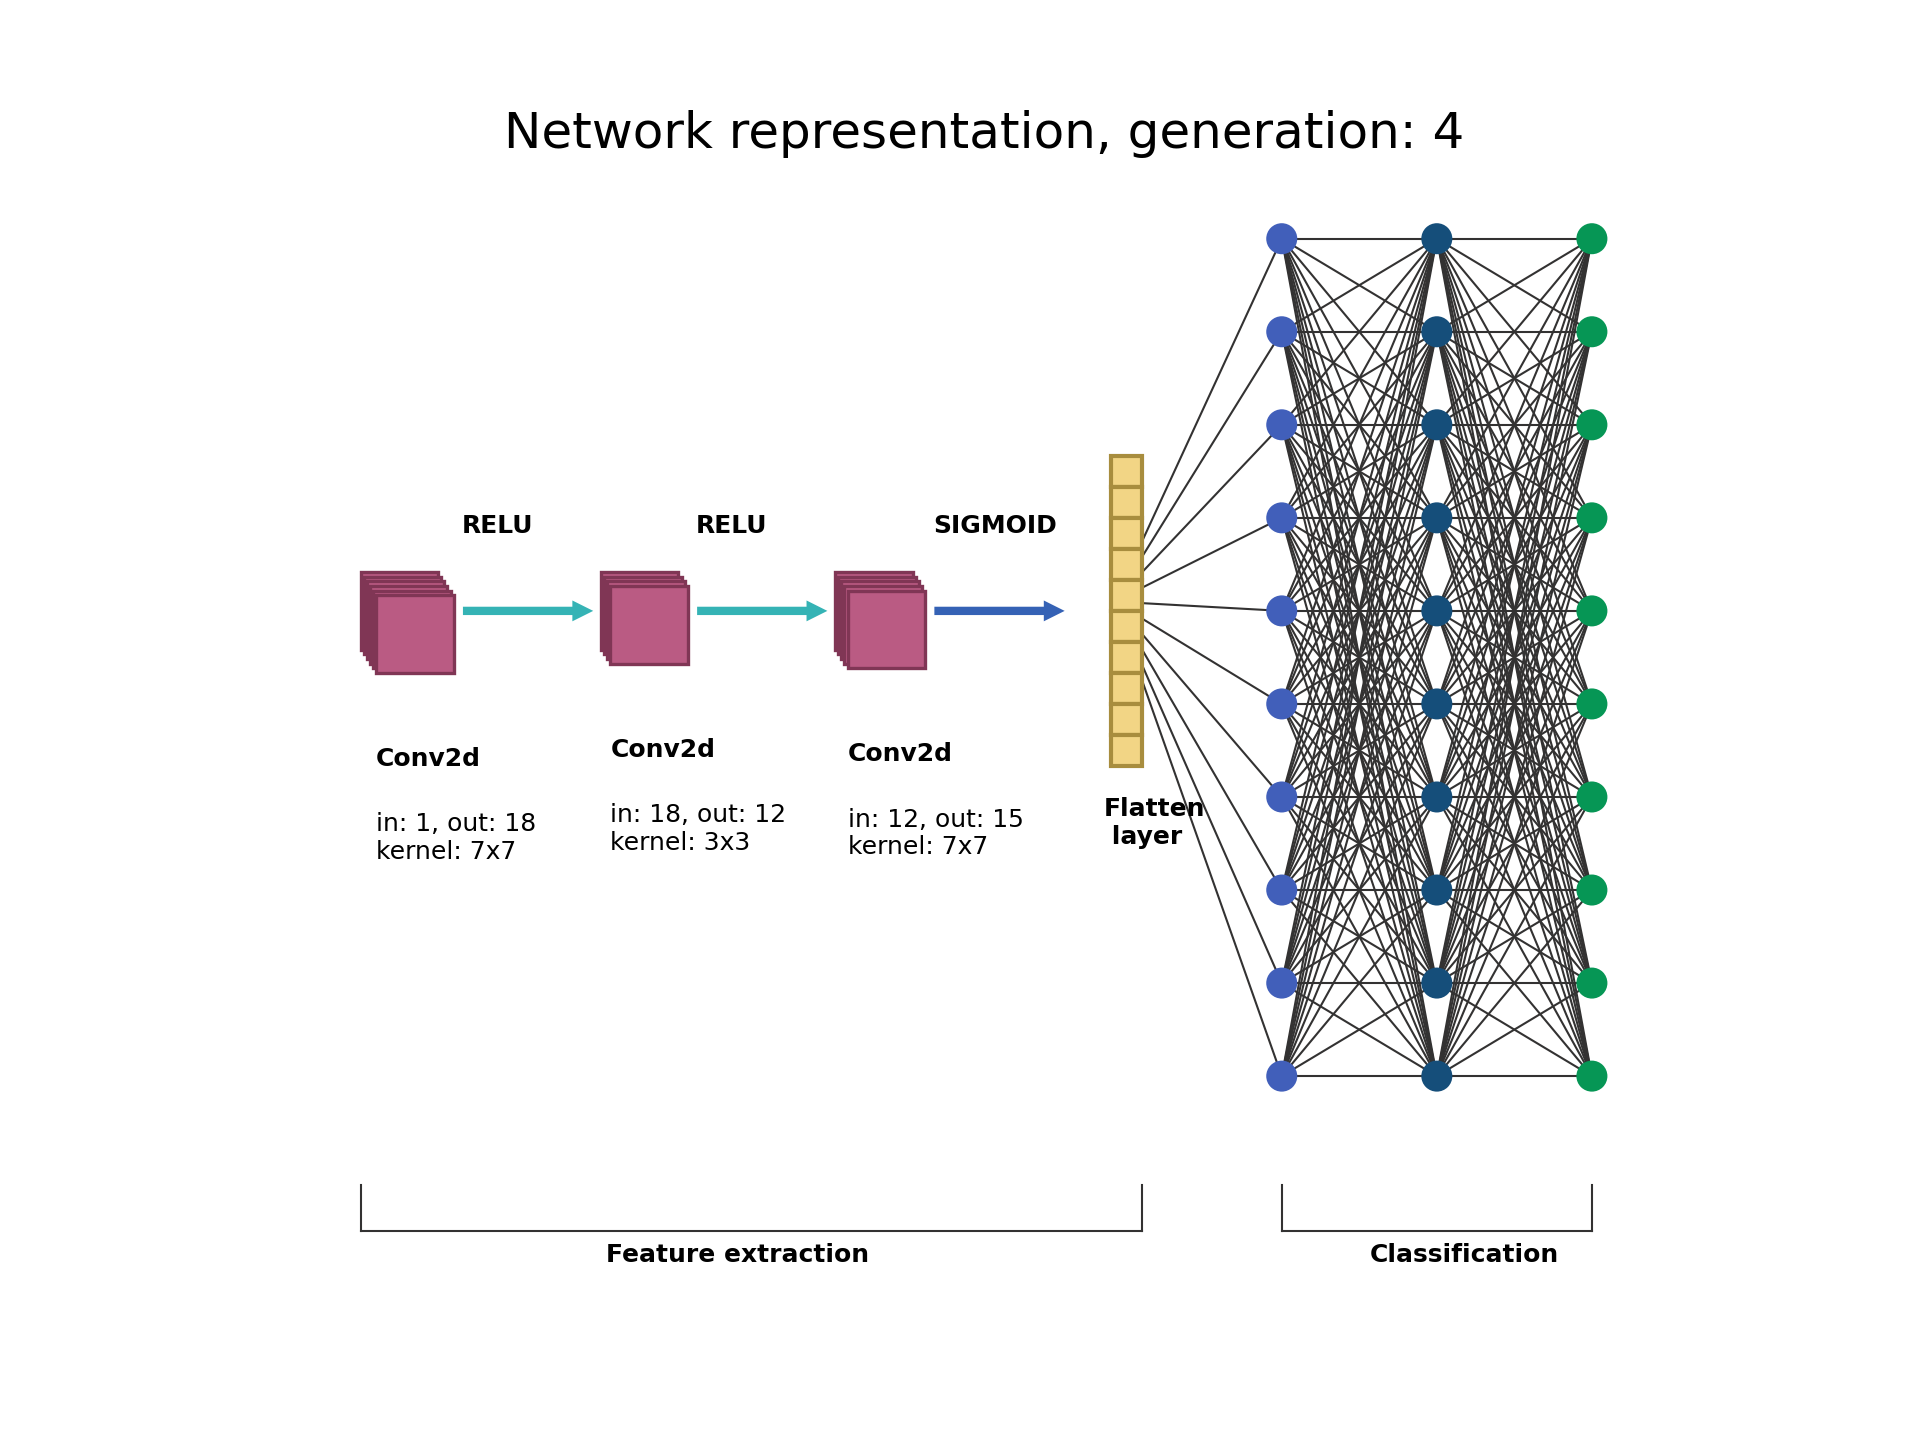
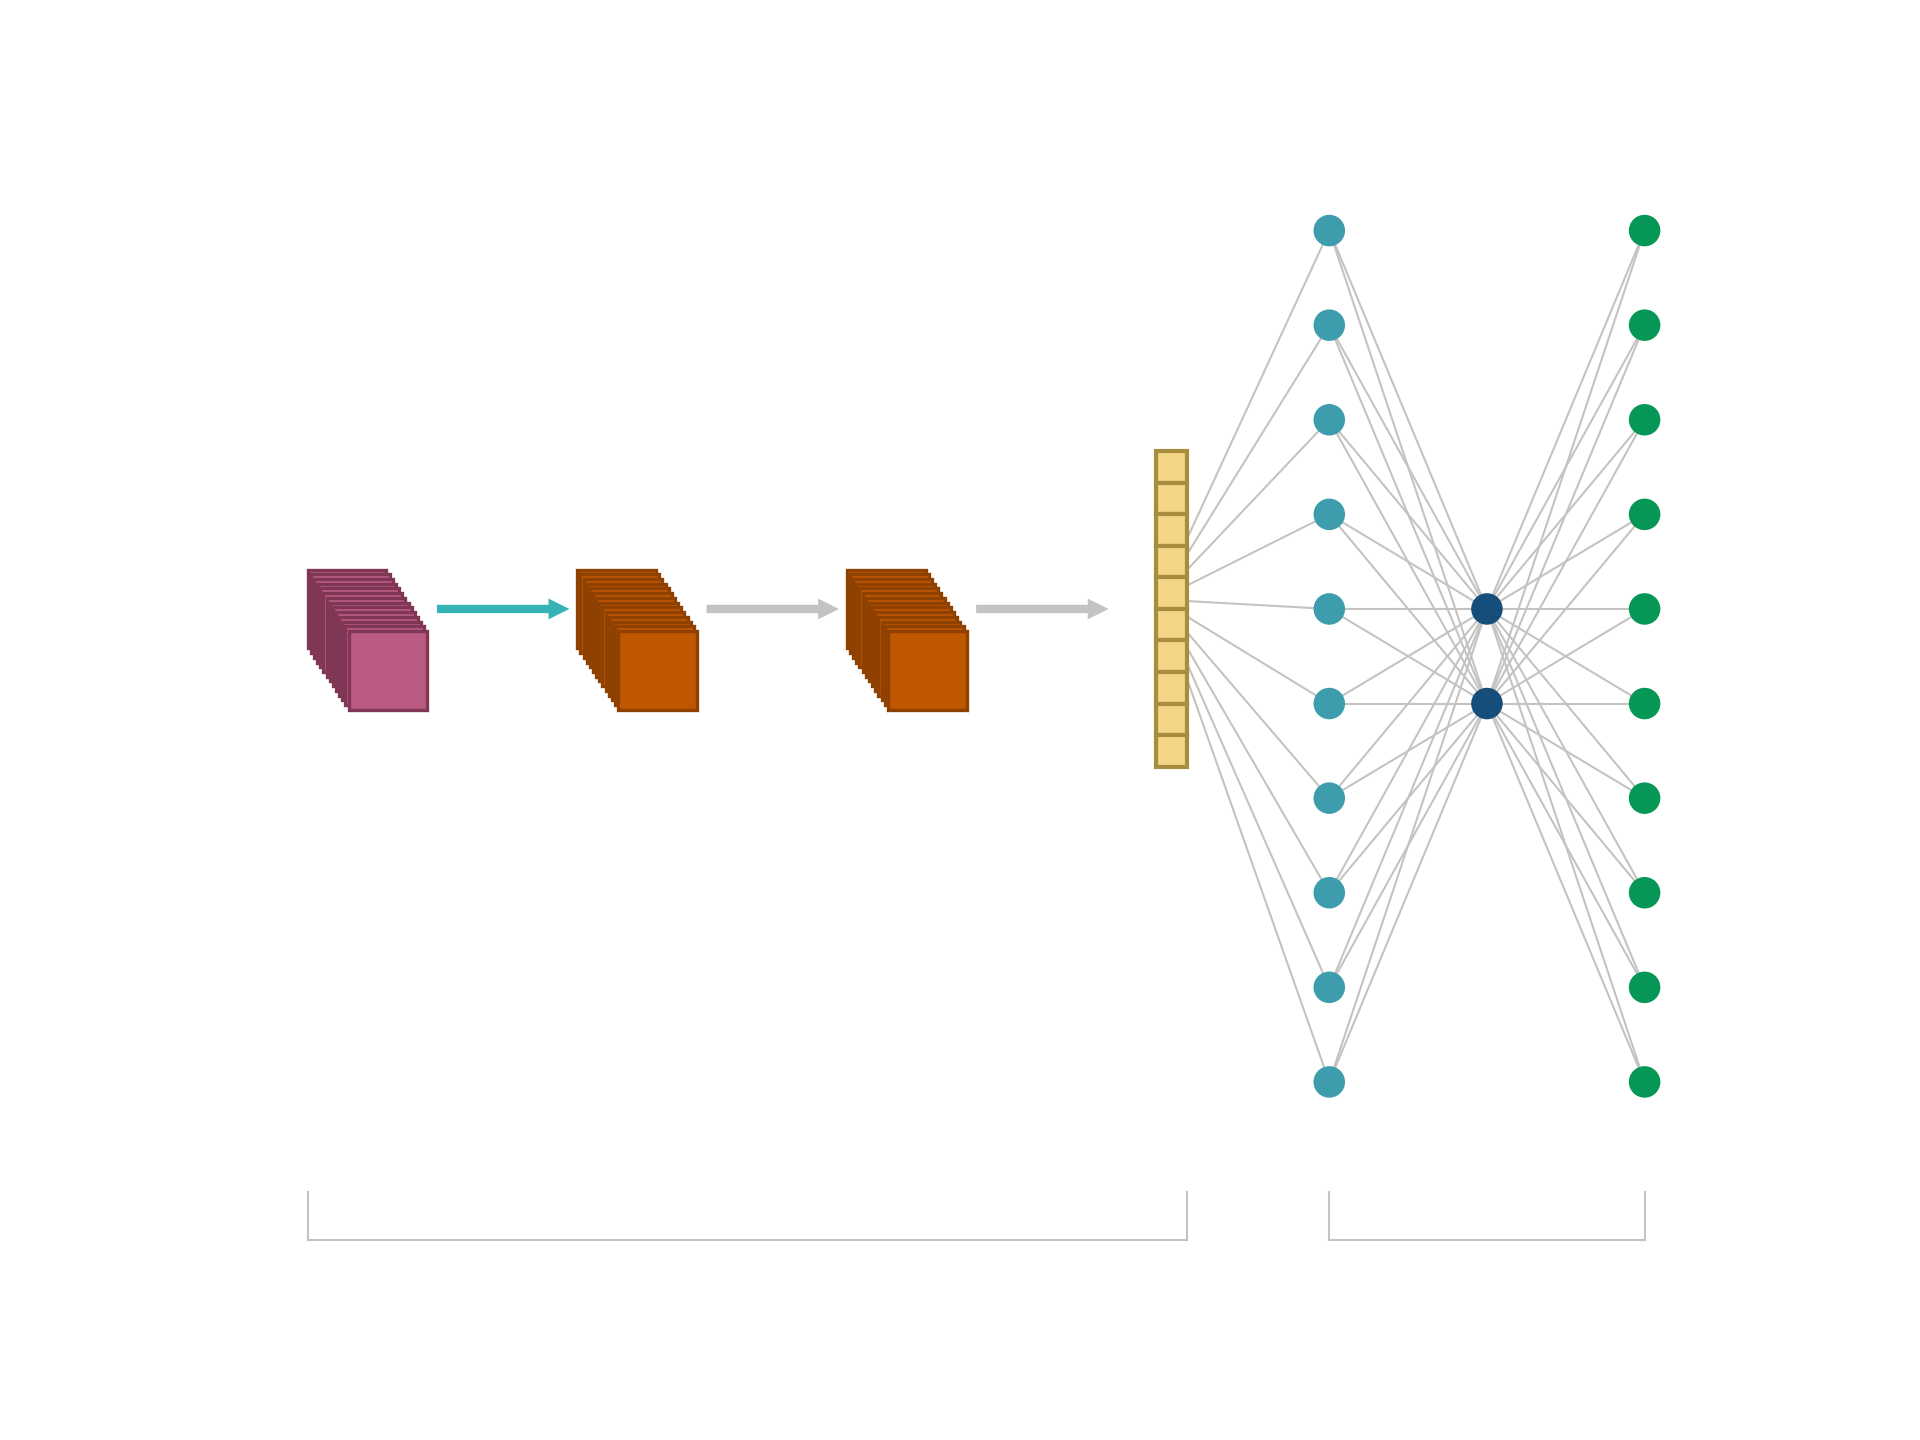
network representation modified and function in main to handle results

diff --git a/DENSER/src/dsge_level.py b/DENSER/src/dsge_level.py
@@ -311,7 +311,7 @@ class Module:
         if (c_out is not None):
             for i in range(self.len()):
                 self.layers[i].fix_channels(c_out=c_out)
-            self.param['output_channels'] = c_out
+                self.param['output_channels'] = c_out
             
         if(c_in is not None):
             self.layers[0].fix_channels(c_in=c_in)
@@ -389,8 +389,7 @@ class Module:
     
 
 
-
-    ########################################
+########################################
     # Plot the neural network architecture
     ########################################
 
@@ -400,9 +399,13 @@ class Module:
         c_out = self.param['output_channels']
         kernel_size = self.layers[0].param['kernel_size']
 
+        text_color = 'white'
         colors = ['#ba5b83', '#bf5600']
+        edgecolors = ['#803655', '#8f4101']
         layer_type = self.layers[0].type
         color = colors[0] if layer_type == layer_type.CONV else colors[1]
+        edgecolor = edgecolors[0] if layer_type == layer_type.CONV else edgecolors[1]
+
         plotted = int(c_out/3) if c_out >= 3 else c_out
     
         for i in range(plotted):
@@ -412,7 +415,7 @@ class Module:
             y1 = -2.5+i*(-0.3)
             y2 = 2.5 - i*0.3
             y = [y1,y1,y2,y2]
-            trapezoid = pyplot.Polygon(xy=list(zip(x,y)),  facecolor=color, edgecolor='#803655', linewidth=0.8)
+            trapezoid = pyplot.Polygon(xy=list(zip(x,y)),  facecolor=color, edgecolor=edgecolor, linewidth=0.8)
             pyplot.gca().add_patch(trapezoid)
         
         
@@ -428,16 +431,16 @@ class Module:
             # get activation function type
             activation_layer_type = str(self.layers[1].param)[11:]
 
-            plt.text(x1, y1 - 6, f'Conv2d', fontsize=font_size, fontweight='bold',  color='black')
-            plt.text(x1, y1 - 12, f'in: {c_in}, out: {c_out}\nkernel: {kernel_size}x{kernel_size}', fontsize=font_size, color='black')
+            plt.text(x1, y1 - 6, f'Conv2d', fontsize=font_size, fontweight='bold',  color=text_color)
+            plt.text(x1, y1 - 12, f'in: {c_in}, out: {c_out}\nkernel: {kernel_size}x{kernel_size}', fontsize=font_size, color=text_color)
         elif layer_type == layer_type.POOLING:
-            plt.text(x1, y1 - 6, f'Pool2d ', fontsize=font_size, fontweight='bold',  color='black')
+            plt.text(x1, y1 - 6, f'Pool2d ', fontsize=font_size, fontweight='bold',  color=text_color)
         
         # add arrow to next module with activation type label if present
         plt.tick_params(axis='x', labelsize=10)
-        plt.text(x2+0.5, 5, f'{activation_layer_type}', fontsize=font_size, fontweight='bold',  color='black')
+        plt.text(x2+0.5, 5, f'{activation_layer_type}', fontsize=font_size, fontweight='bold',  color=text_color)
 
-        colors = ['#35b3b5', '#3562b5', '#35b575', '#474747']
+        colors = ['#35b3b5', '#3562b5', '#35b575', '#c4c3c2']#'#474747']
 
         if activation_layer_type:
             color = colors[self.layers[1].param.value]
@@ -461,11 +464,10 @@ class Module:
                 trapezoid = pyplot.Polygon(xy=list(zip(x,y)),  facecolor='#f2d585', edgecolor='#a88d3e', linewidth=1)
                 pyplot.gca().add_patch(trapezoid)
 
-            plt.text(x1-0.5, y1 - 7, 'Flatten\n layer', fontsize=font_size, fontweight='bold',  color='black')
+            plt.text(x1-2, y1 - 7, 'Flatten\n layer', fontsize=font_size, fontweight='bold',  color=text_color)
             next = x2 + 9
 
             self.add_label(0.5,x2, 'Feature extraction', font_size)
-
 
         #update the start position
         return next
@@ -537,16 +539,19 @@ class Module:
 
 
     def line_between_two_nodes(self, node1, node2):
-        line = pyplot.Line2D((node1['x'], node2['x']), (node1['y'], node2['y']), color='#333232', linewidth=0.5, zorder=-1)
+        connections_color = '#c4c3c2' #'#333232'  
+        line = pyplot.Line2D((node1['x'], node2['x']), (node1['y'], node2['y']), color=connections_color, linewidth=0.5, zorder=-1)
         pyplot.gca().add_line(line)
 
     def add_label(self, x1, x2, name, font_size):
+        text_color = 'white'
+        connections_color = '#c4c3c2' #'#333232'  
         y1 = -40
         y2 = y1 + 3
-        line = pyplot.Line2D((x1, x2), (y1, y1), color='#333232', linewidth=0.5)
-        line1 = pyplot.Line2D((x1, x1), (y1, y2), color='#333232', linewidth=0.5)
-        line2 = pyplot.Line2D((x2, x2), (y1, y2), color='#333232', linewidth=0.5)
+        line = pyplot.Line2D((x1, x2), (y1, y1), color=connections_color, linewidth=0.5)
+        line1 = pyplot.Line2D((x1, x1), (y1, y2), color=connections_color, linewidth=0.5)
+        line2 = pyplot.Line2D((x2, x2), (y1, y2), color=connections_color, linewidth=0.5)
         pyplot.gca().add_line(line)
         pyplot.gca().add_line(line1)
         pyplot.gca().add_line(line2)
-        plt.text(x1 + (x2 -x1)/3 - 1, y1 - 2, name,  fontweight='bold', fontsize=font_size,  color='black')
+        plt.text(x1 + (x2 -x1)/3 - 1, y1 - 2, name,  fontweight='bold', fontsize=font_size,  color=text_color)

diff --git a/DENSER/main.py b/DENSER/main.py
@@ -9,33 +9,34 @@ import sys
 import imageio
 from os import listdir
 
-LAST_LAYER_SIZE = 1
 
-def test_evolution(dataset, batch_size):
-    curr_env = evolution(population_size=2, holdout=0.6, mating=True, dataset=dataset, batch_size=batch_size)
+def run_evolution(dataset, population_size = 2, num_generations=2, batch_size=4):
+    # create a population of random networks
+    curr_env = evolution(population_size, holdout=0.6, mating=True, dataset=dataset, batch_size=batch_size)
     
     # run evolution and write result on file
-    f = open('results.csv', 'w+')
+    f = open('results/all_generations_data.csv', 'w+')
     # create the csv writer
     writer = csv.writer(f)
 
-    fieldnames = ['generation', 'best_score', 'num_layers']
+    fieldnames = ['generation', 'individual', 'accuracy', 'num_layers']
     writer.writerow(fieldnames)
     res = []
 
-    generations = 1
+    generations = num_generations
     for i in range(generations):
-        curr_env.generation()
+        gen = curr_env.generation()
         this_generation_best, score = curr_env.get_best_organism()
         best_net = this_generation_best
         print("Generation ", i , "'s best network accuracy: ", score, "%")
-        res.append([i, score, best_net._len()])
+        for j in range(population_size):
+            res.append([i, j, gen[j]['score'], gen[j]['len']])
+        #res.append([i, score, best_net._len()])
 
     # test last generation best organism
     trainloader , testloader, _, _, _ = dataset(batch_size)
     model = train(Net(best_net), trainloader , batch_size, all=True)
-    acc = eval(model, testloader )
-
+    acc = eval(model, testloader)
 
     original_stdout = sys.stdout # Save a reference to the original standard output
     with open('best_organism', 'w+') as d:
@@ -45,12 +46,11 @@ def test_evolution(dataset, batch_size):
         sys.stdout = original_stdout
 
     
-
     print("Best accuracy obtained: ", score)
     writer.writerows(res)
     f.close() 
 
-
+'''
 def generate_random_net():
     num_feat = np.random.randint(1, MAX_LEN_FEATURES)
     num_class = np.random.randint(1, MAX_LEN_CLASSIFICATION)
@@ -61,23 +61,43 @@ def create_random_gif():
         enc = generate_random_net()
         enc.draw(i)
 
-    """ frames = []
     # Build GIF
+    frames = []
 
     for filename in listdir('images_net'):
-        image = imageio.imread('images_net/'+filename)
-        frames.append(image)
+        if filename.endswith('.png'):
+            image = imageio.imread('images_net/'+filename)
+            frames.append(image)
 
-    imageio.mimsave('nn_evolution.gif', frames, format='GIF', duration=1) """
+        imageio.mimsave('images_net/nn_evolution.gif', frames, format='GIF', duration=1)
+   
+'''
 
 if __name__ == "__main__":
    
-    # load dataset for the following test function
-    """ batch_size = 4
+    # read arguments provided by user
+    args = len(sys.argv) 
 
-    dataset = MNIST
+    if args > 1 and not isinstance(sys.argv[1], str):
+        print("Usage: python main.py [dataset] [population_size] [num_generations] [batch_size]")
+        sys.exit(1)
+
+    
+    # choose dataset
+    if args > 1 and sys.argv[1]: dataset = sys.argv[1]
+    else: dataset = MNIST
+
+    if args > 2 and sys.argv[2]: population_size = int(sys.argv[2])
+    else: population_size = 2
+
+    if args > 3 and sys.argv[3]: num_generations = int(sys.argv[3])
+    else: num_generations = 2
+
+    if args> 4 and sys.argv[4]: batch_size = int(sys.argv[4])
+    else: batch_size = 4
+
+    # run evolution
     print("\n\n Evolution of a population of networks: \n\n")
-    test_evolution(dataset, batch_size) """
+    run_evolution(dataset, population_size, num_generations, batch_size)
 
-    create_random_gif()
 

diff --git a/DENSER/src/evolution.py b/DENSER/src/evolution.py
@@ -24,7 +24,8 @@ class evolution():
 
         self.population_size = population_size
         self.population = []
-   
+        self.scores = []
+
         for _ in range(self.population_size):
             num_feat = np.random.randint(1, MAX_LEN_FEATURES)
             num_class = np.random.randint(1, MAX_LEN_CLASSIFICATION)
@@ -38,6 +39,10 @@ class evolution():
         
 
     def generation(self):
+        # statistics for each individual
+        generation = [{"individual": i, "score": self.scores[i], "len": self.population[i]._len()} for i in range(self.population_size)]
+
+        # create new population 
         new_population = [self.best_organism] # Ensure best organism survives
 
         for i in range(self.population_size - 1):
@@ -61,12 +66,14 @@ class evolution():
         
         self.population = new_population
 
+        return generation
+
     def get_best_organism(self):   
-        scores = [self.scoring_function(x) for x in self.population]
-        self.population = [self.population[x] for x in np.argsort(scores)[::-1]]
+        self.scores = [self.scoring_function(x) for x in self.population]
+        self.population = [self.population[x] for x in np.argsort(self.scores)[::-1]]
         
         self.best_organism = copy.deepcopy(self.population[0])
-        self.best_score = sorted(scores)[-1]
+        self.best_score = sorted(self.scores)[-1]
 
         return self.best_organism, self.best_score
 

diff --git a/DENSER/src/ga_level.py b/DENSER/src/ga_level.py
@@ -238,13 +238,13 @@ class Net_encoding:
                 START, node_input = self.GA_encoding(i).draw_classification(START, length_c, length_f, length_c, node_in = node_input) 
 
         # add title
-        plt.title(f"Network representation, generation: {gen}")
+        plt.title(f"Network representation, generation: {gen}", color = 'white')
 
         # remove axis
         pyplot.axis('equal')
         plt.axis('off')
         # save image
-        plt.savefig(f'images_net/gen{gen:003}.png', dpi=300)
+        plt.savefig(f'images_net/gen{gen:003}.png', dpi=300, transparent=True)
         plt.close()
         #pyplot.show()
 
